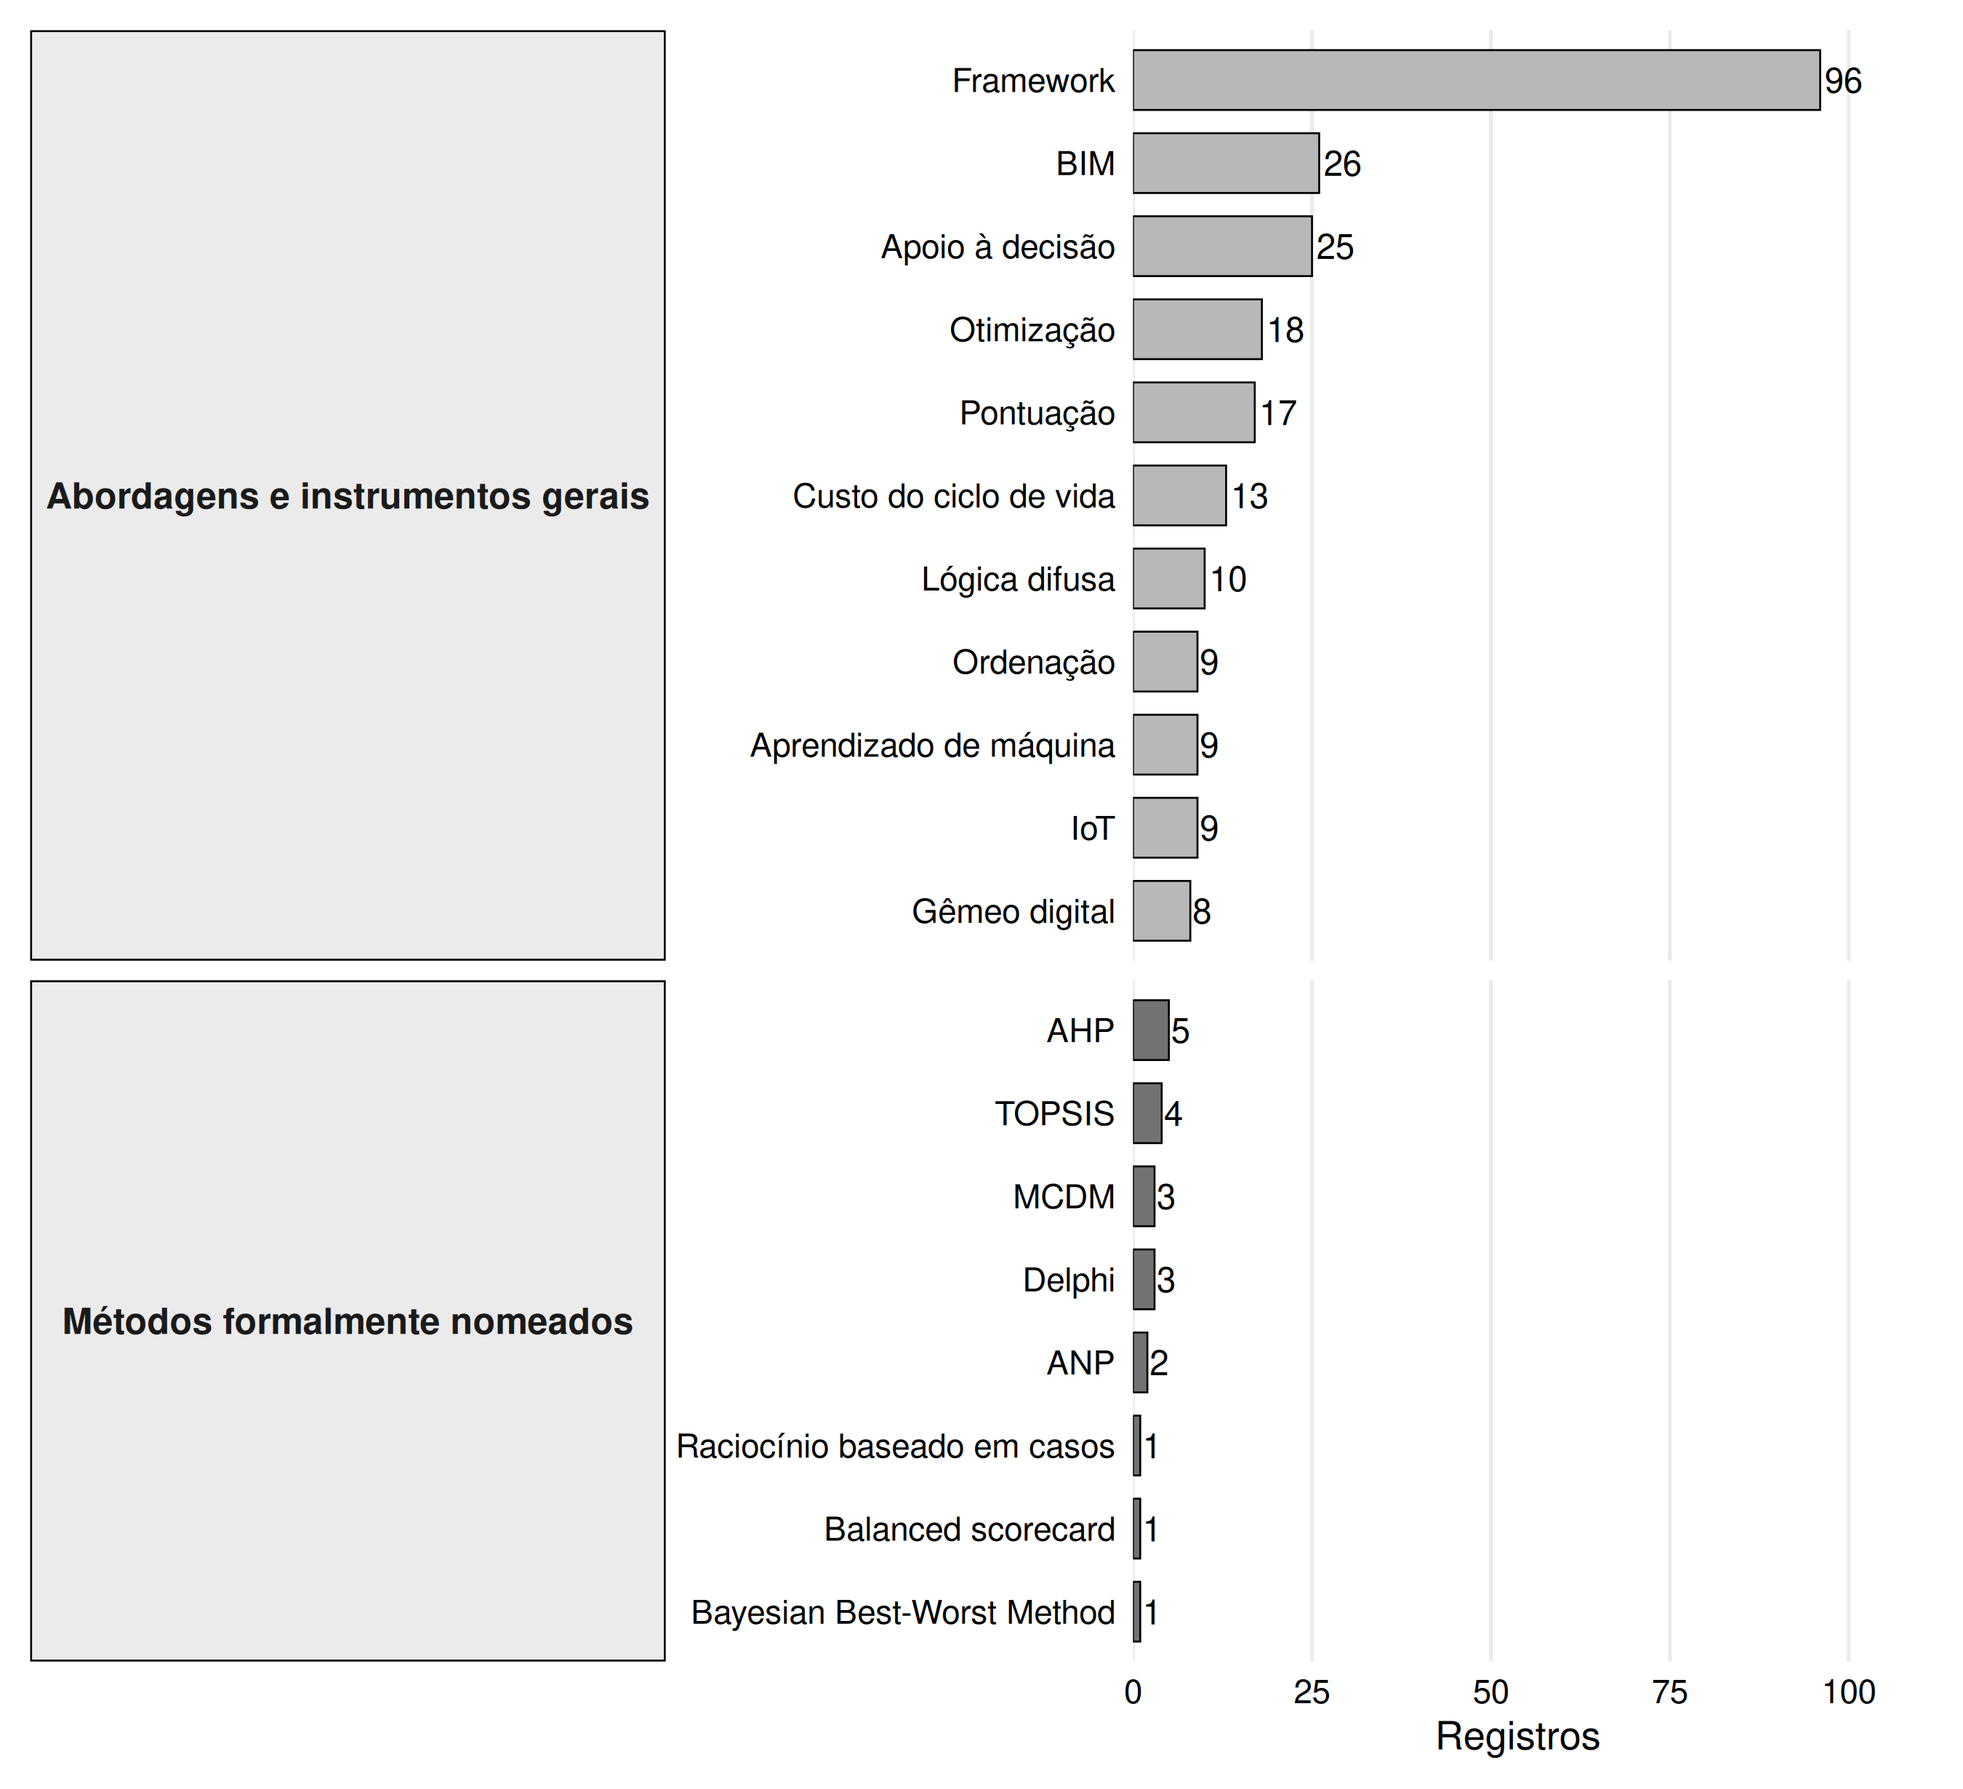
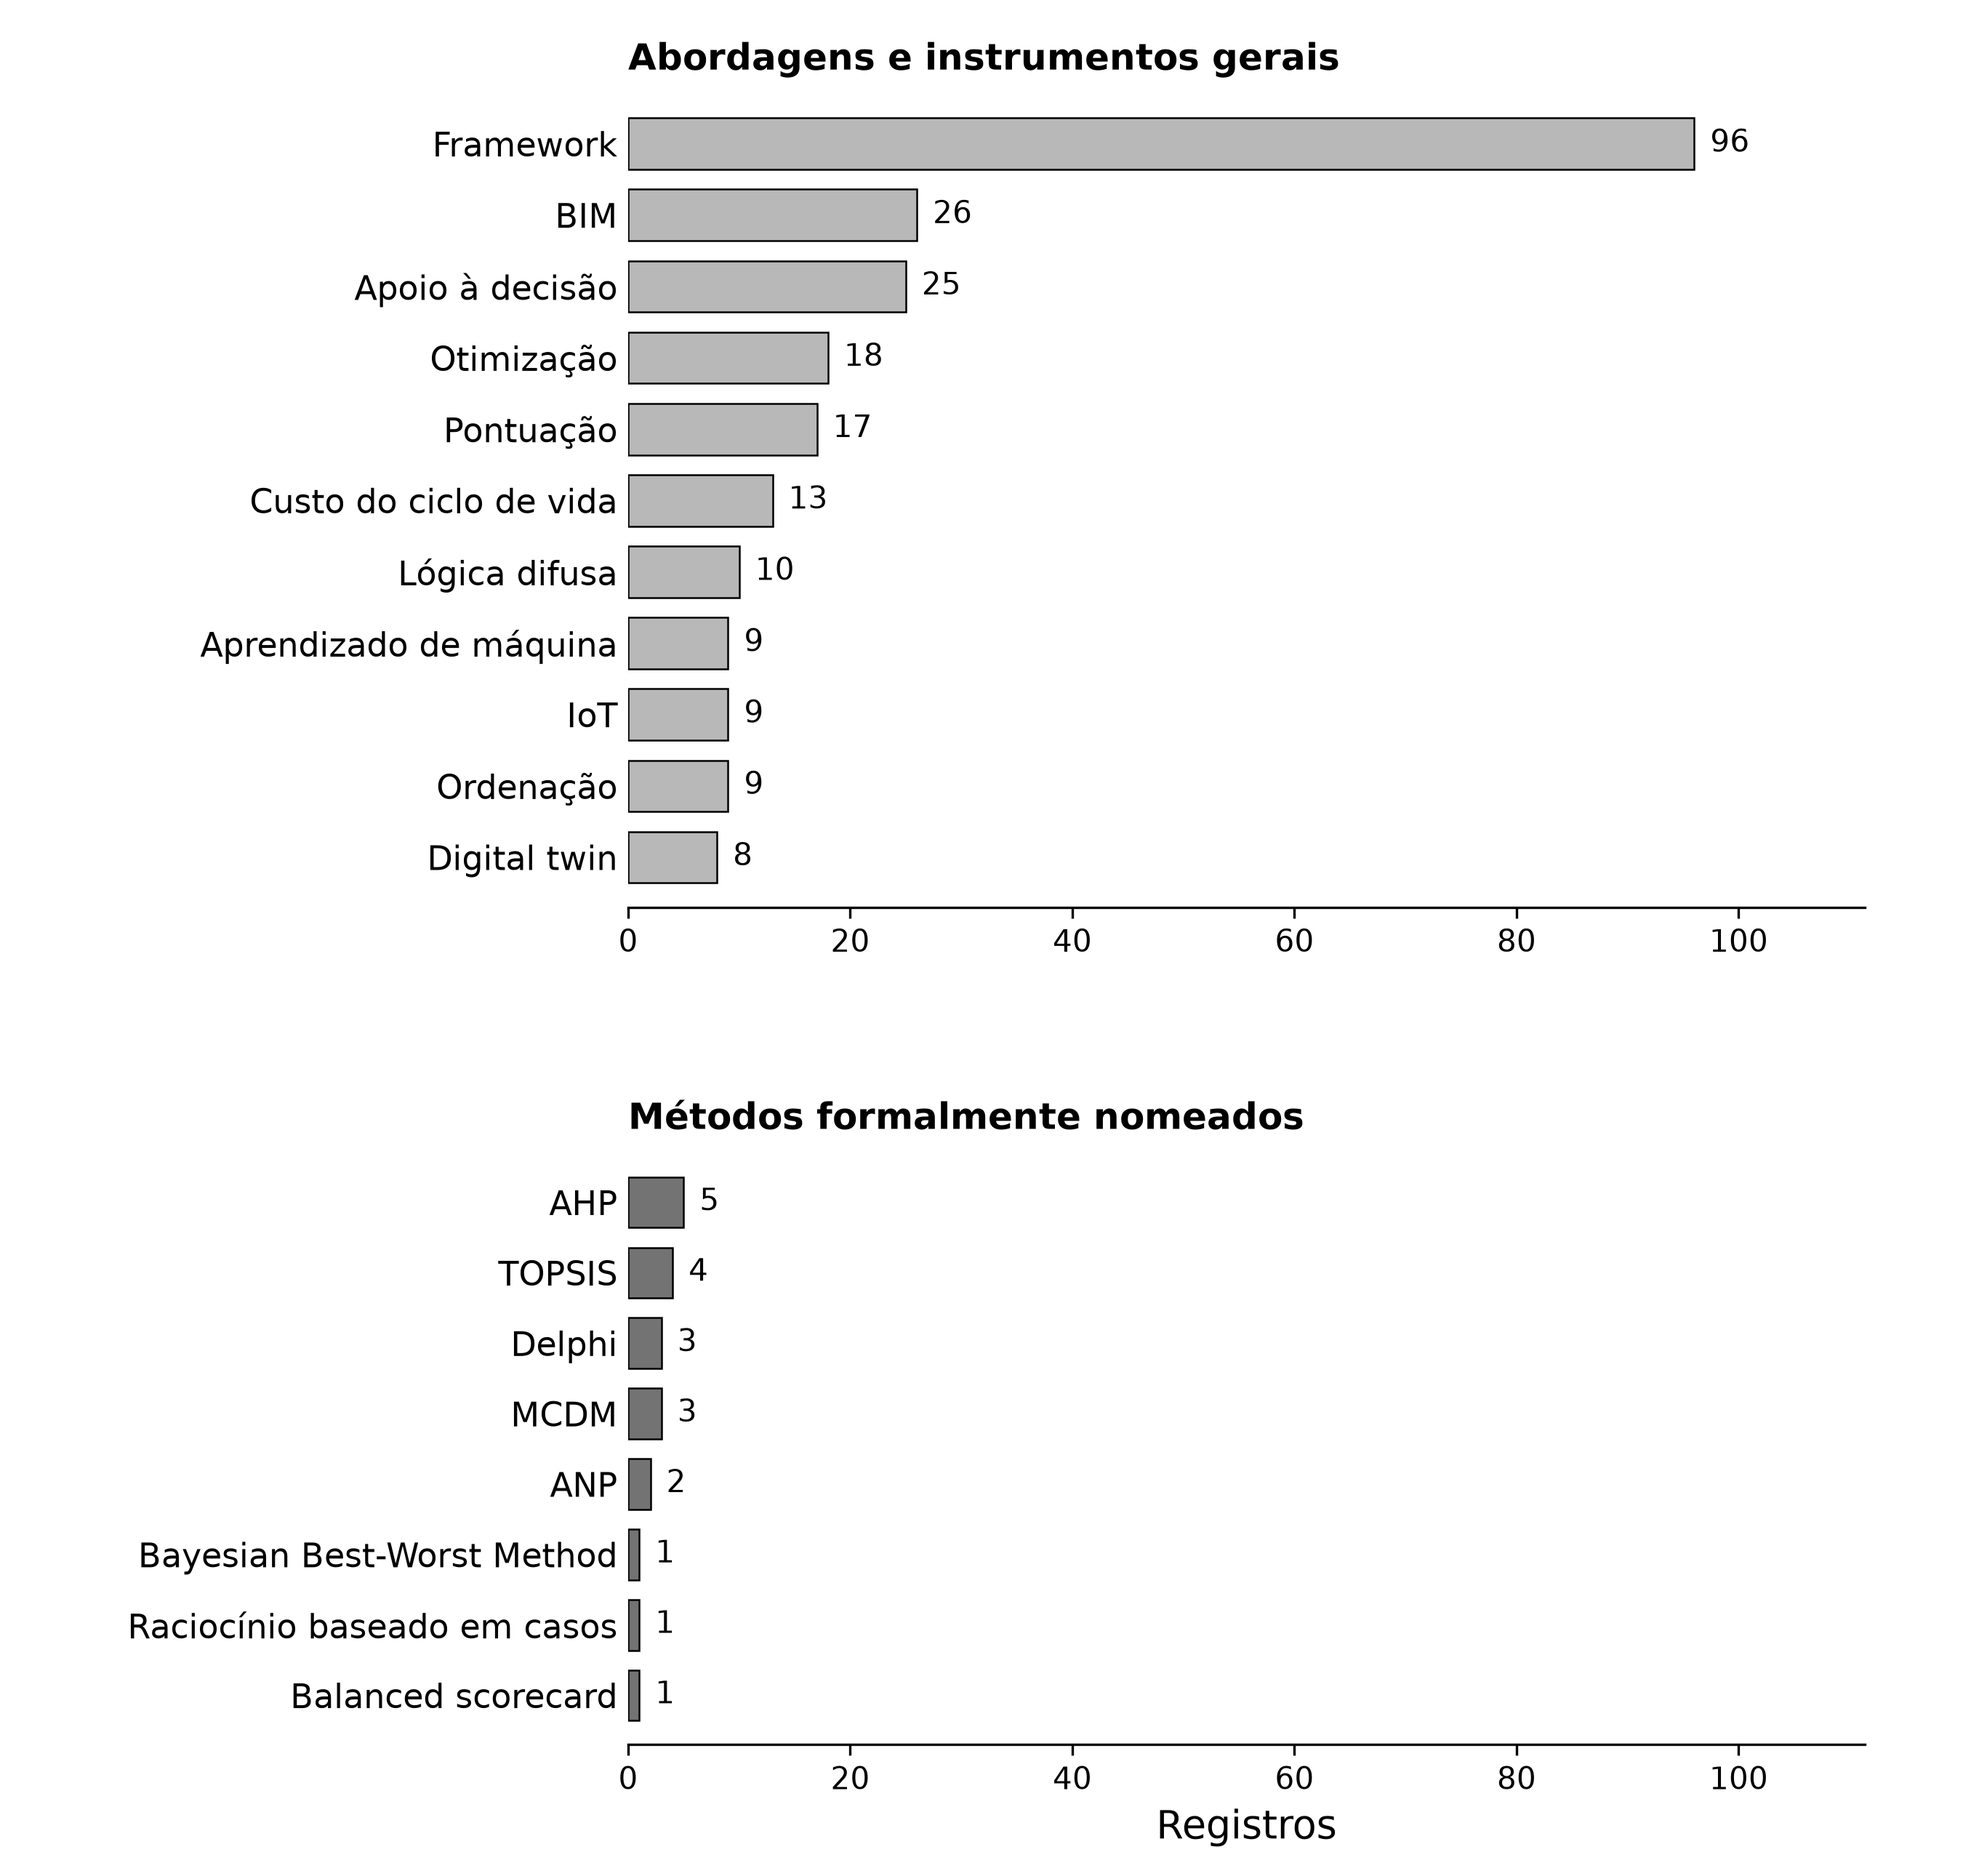
Ajusta cor dos links, mantém "digital twin" em inglês e publica PDF via GitHub Pages
- hyperref: urlcolor/filecolor pretos (todos os links do PDF ficam pretos, sem azul)
- Mantém "digital twin"/"digital twins" em inglês no texto e no Gráfico 4,
  em vez de "gêmeo(s) digital(is)", por consistência com BIM/IoT/framework
- Adiciona job de deploy do GitHub Pages ao workflow existente, publicando
  o PDF compilado em uma página simples atualizada a cada push em main

diff --git a/latex-artigo/sections/06_metodos.tex b/latex-artigo/sections/06_metodos.tex
@@ -12,7 +12,7 @@ A categoria documental ampla \textit{framework} foi atribuída a 96 dos 104 regi
 
 Os estudos do núcleo ilustram diferentes formas de estruturar a decisão. O modelo de \textcite{alfalah_frameworkeducacional_2022} combina avaliação de sustentabilidade e ANP difuso em edifícios de ensino. \textcite{naji_campusdelphi_2023} utilizam Delphi modificado para desenvolver um referencial operacional de gestão de facilidades em \textit{campus}. \textcite{masmoudi_ahptopsis_2026} integram AHP, TOPSIS e otimização na alocação de prestadores para manutenção de edifícios públicos. Em conjunto, essas aplicações mostram que os métodos podem organizar critérios técnicos, econômicos, ambientais e sociais em diferentes problemas de gestão predial.
 
-A leitura de texto completo de um pequeno subconjunto de estudos do núcleo final, com PDF disponível por acesso aberto ou biblioteca pessoal, permite qualificar essas aplicações além do nível documental. \textcite{deng_bimdigitaltwins_2021} revisam sistematicamente 123 estudos sobre a evolução de BIM para gêmeos digitais no setor AEC-FM e constatam que nenhum deles alcançou o nível considerado ideal de gêmeo digital, com capacidades plenas de controle, otimização e retroalimentação. \textcite{gispert_ontologiaativos_2025} descrevem um modelo de informação de ativos baseado em ontologia voltado à manutenção preditiva, que desloca a lógica de manutenção da falha corrigida para a prevenção antecipada. \textcite{goretti_bimoem_2023} identificam a dimensão BIM 7D como a etapa do modelo voltada especificamente à gestão de facilidades durante a operação e a manutenção. \textcite{ferreira_manutencaoceramica_2020} exemplificam, para revestimentos cerâmicos, um modelo estocástico baseado em redes de Petri e simulação de Monte Carlo para comparar estratégias de manutenção preventiva, corretiva e combinada. Lidos em texto completo, esses quatro casos indicam que os métodos de apoio à decisão identificados no núcleo final variam de revisões sobre a maturidade tecnológica de gêmeos digitais a modelos estocásticos aplicados a componentes construtivos específicos, sem alterar a predominância documental do restante da análise.
+A leitura de texto completo de um pequeno subconjunto de estudos do núcleo final, com PDF disponível por acesso aberto ou biblioteca pessoal, permite qualificar essas aplicações além do nível documental. \textcite{deng_bimdigitaltwins_2021} revisam sistematicamente 123 estudos sobre a evolução de BIM para \textit{digital twins} no setor AEC-FM e constatam que nenhum deles alcançou o nível considerado ideal de \textit{digital twin}, com capacidades plenas de controle, otimização e retroalimentação. \textcite{gispert_ontologiaativos_2025} descrevem um modelo de informação de ativos baseado em ontologia voltado à manutenção preditiva, que desloca a lógica de manutenção da falha corrigida para a prevenção antecipada. \textcite{goretti_bimoem_2023} identificam a dimensão BIM 7D como a etapa do modelo voltada especificamente à gestão de facilidades durante a operação e a manutenção. \textcite{ferreira_manutencaoceramica_2020} exemplificam, para revestimentos cerâmicos, um modelo estocástico baseado em redes de Petri e simulação de Monte Carlo para comparar estratégias de manutenção preventiva, corretiva e combinada. Lidos em texto completo, esses quatro casos indicam que os métodos de apoio à decisão identificados no núcleo final variam de revisões sobre a maturidade tecnológica de \textit{digital twins} a modelos estocásticos aplicados a componentes construtivos específicos, sem alterar a predominância documental do restante da análise.
 
 
 

diff --git a/latex-artigo/sections/09_discussao.tex b/latex-artigo/sections/09_discussao.tex
@@ -3,7 +3,7 @@
 
 Os resultados mostram convergência em torno de uma compreensão ampliada da manutenção predial. Desempenho técnico, governança, ambiente, ciclo de vida, custos e condições sociais de uso aparecem de forma combinada, o que aproxima a manutenção de uma função de gestão de ativos e de facilidades, e não apenas de resposta corretiva. Essa convergência é compatível com a literatura de gestão sustentável de facilidades, que distribui responsabilidades entre os níveis estratégico, tático e operacional e relaciona a operação dos edifícios aos objetivos institucionais \parencite{nielsen_sustentabilidadefm_2016,opoku_futurofm_2022,okoro_sustainablefm_2023}. No corpus, entretanto, a frequência elevada das dimensões técnica-operacional e institucional decorre de categorias documentais amplas. Ela indica recorrência temática, mas não mede a qualidade ou a intensidade com que cada dimensão foi operacionalizada.
 
-A distribuição temporal evidencia expansão recente da produção, com concentração de 84,6\% dos registros entre 2019 e 2026 e maior frequência em 2025. Esse padrão é contemporâneo à ampliação do uso de BIM, gêmeos digitais, sensores, modelos de informação e métodos de otimização na operação de edifícios. A associação temporal, contudo, deve ser interpretada de forma descritiva, pois a revisão não avaliou causalidade entre difusão tecnológica e volume de publicações. A literatura examinada em texto completo ilustra diferentes estágios de maturidade: há revisões que ainda identificam distância entre BIM e gêmeos digitais plenamente integrados, ao mesmo tempo que surgem modelos de informação de ativos voltados à manutenção preditiva \parencite{deng_bimdigitaltwins_2021,gispert_ontologiaativos_2025,goretti_bimoem_2023}.
+A distribuição temporal evidencia expansão recente da produção, com concentração de 84,6\% dos registros entre 2019 e 2026 e maior frequência em 2025. Esse padrão é contemporâneo à ampliação do uso de BIM, \textit{digital twins}, sensores, modelos de informação e métodos de otimização na operação de edifícios. A associação temporal, contudo, deve ser interpretada de forma descritiva, pois a revisão não avaliou causalidade entre difusão tecnológica e volume de publicações. A literatura examinada em texto completo ilustra diferentes estágios de maturidade: há revisões que ainda identificam distância entre BIM e \textit{digital twins} plenamente integrados, ao mesmo tempo que surgem modelos de informação de ativos voltados à manutenção preditiva \parencite{deng_bimdigitaltwins_2021,gispert_ontologiaativos_2025,goretti_bimoem_2023}.
 
 Também há divergência entre a ampla presença de abordagens gerais e a baixa frequência de métodos formalmente estruturados. A categoria \textit{framework} aparece em quase todo o núcleo, enquanto AHP, TOPSIS, ANP, Delphi e MCDM ocorrem em subconjuntos reduzidos. Essa diferença indica que propor uma estrutura conceitual ou mencionar apoio à decisão não equivale a aplicar um procedimento multicritério com critérios definidos, normalização, ponderação, agregação, análise de sensibilidade e validação. Nos casos em que a aplicação está documentalmente sustentada, os métodos assumem funções distintas: avaliação de sustentabilidade de edifícios educacionais, construção de referenciais operacionais de \textit{campus} e alocação de prestadores de manutenção de edifícios públicos \parencite{alfalah_frameworkeducacional_2022,naji_campusdelphi_2023,masmoudi_ahptopsis_2026}.
 

diff --git a/latex-artigo/main.tex b/latex-artigo/main.tex
@@ -20,7 +20,7 @@
 \usepackage{float}
 \usepackage{tikz}
 \usetikzlibrary{positioning,arrows.meta}
-\usepackage[colorlinks=true,linkcolor=black,citecolor=black,urlcolor=blue]{hyperref}
+\usepackage[colorlinks=true,linkcolor=black,citecolor=black,urlcolor=black,filecolor=black]{hyperref}
 
 \captionsetup{labelsep=period,justification=centering,font=small}
 \captionsetup[table]{position=top}
